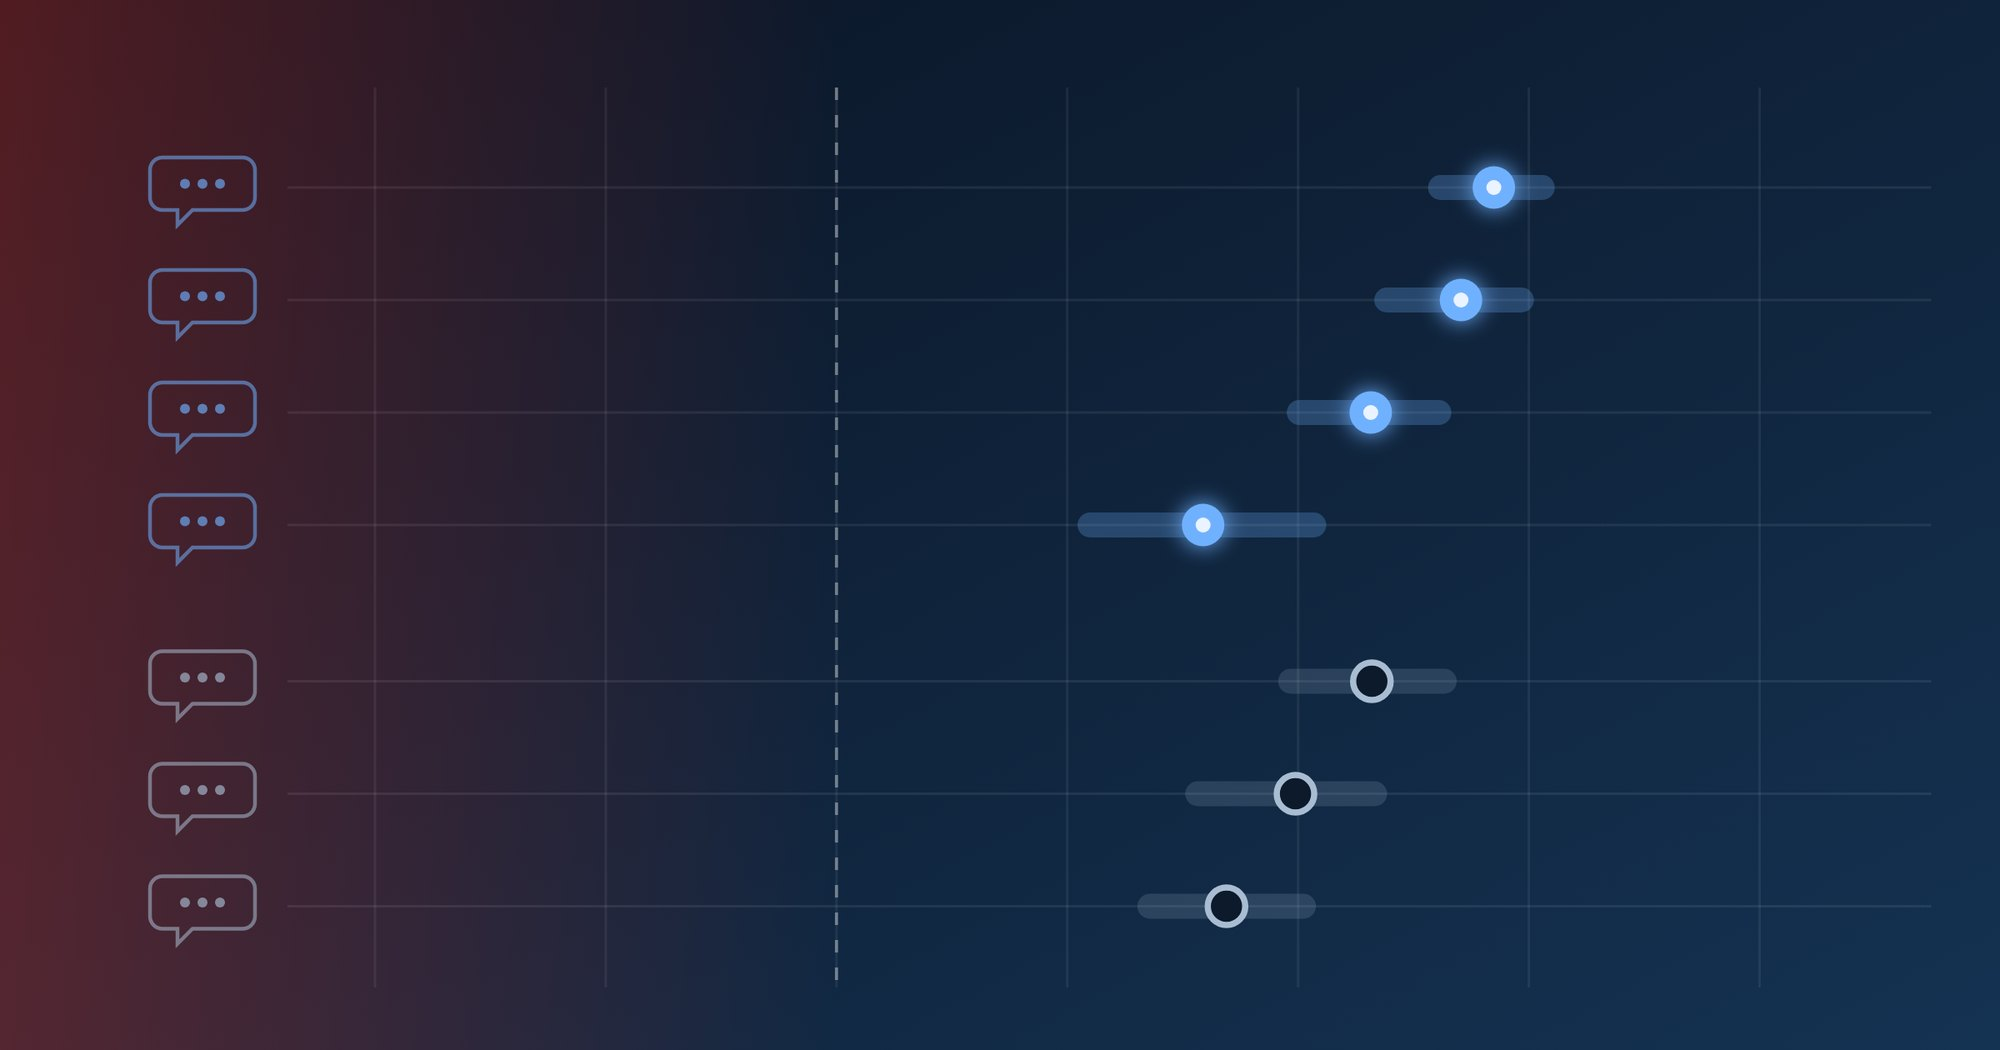
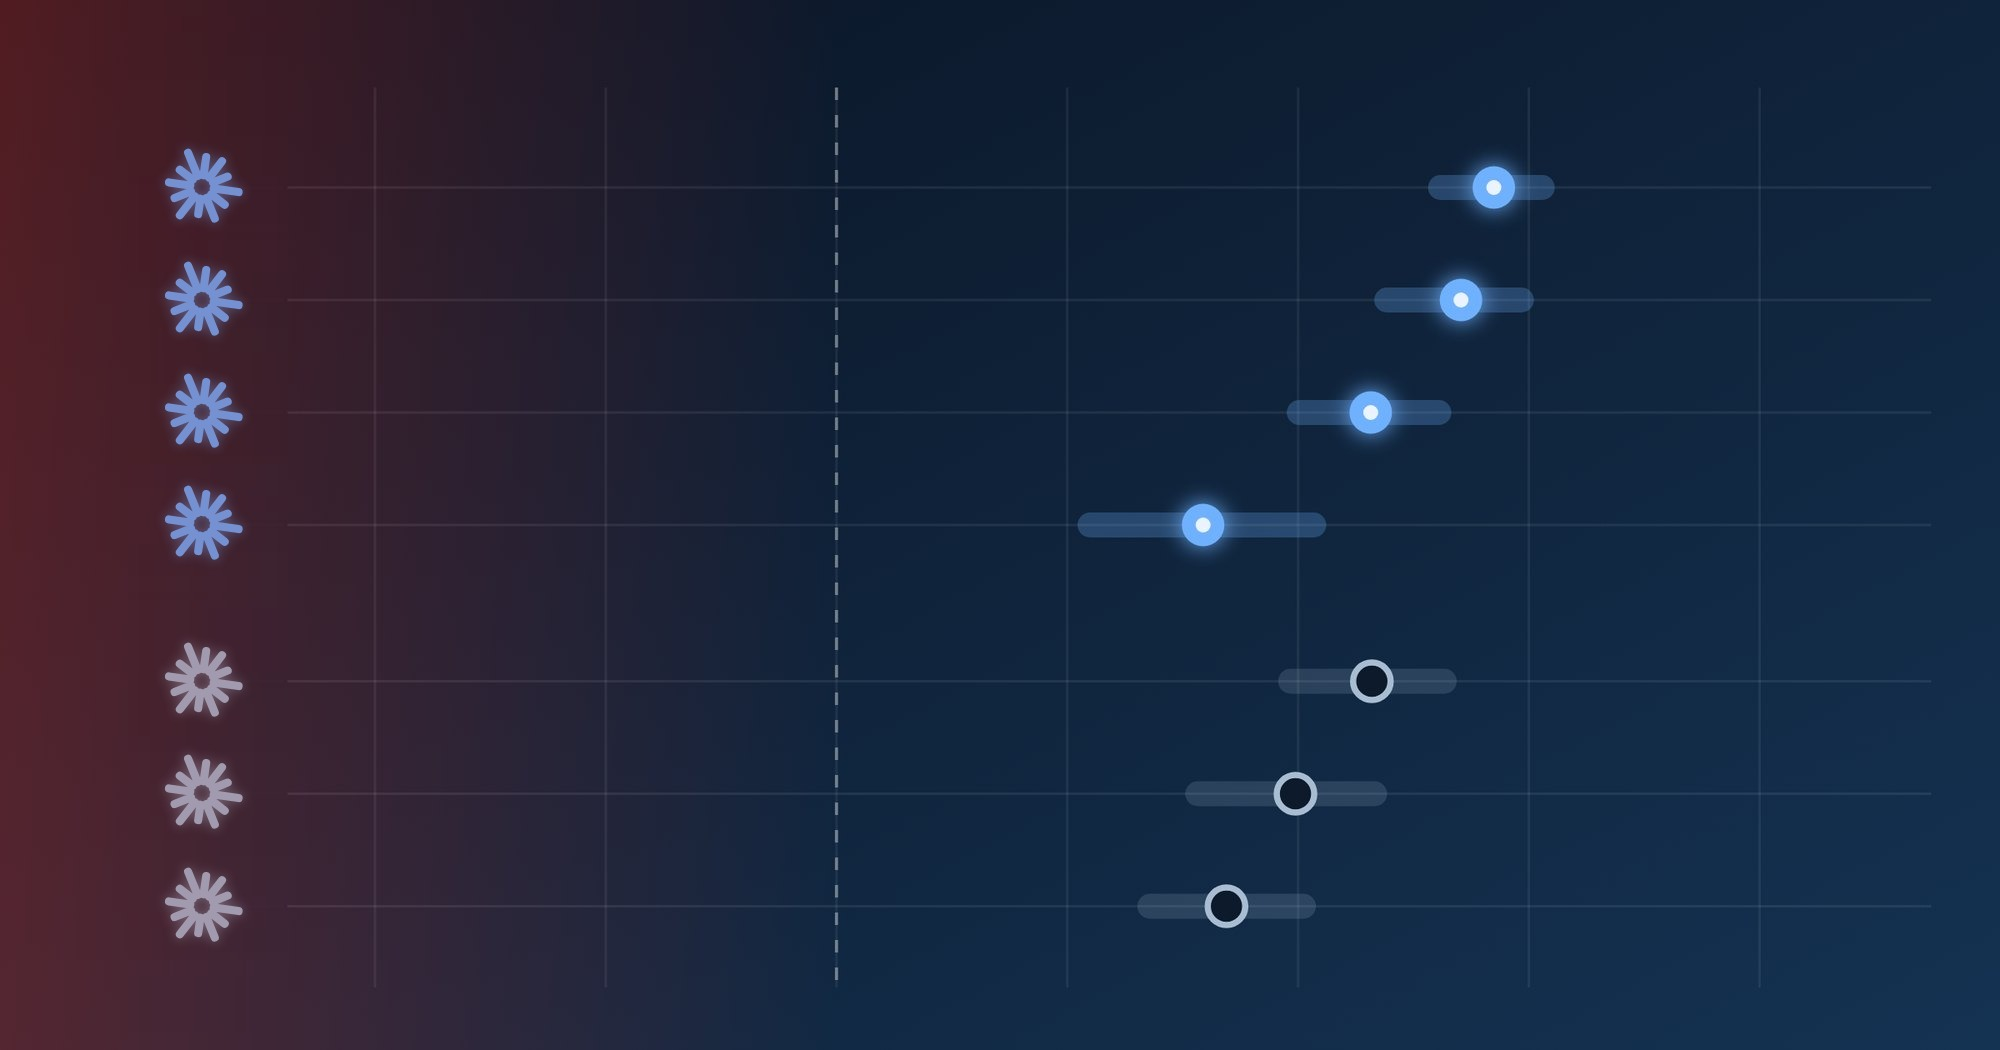
Replace speech bubbles on the comfort-index covers with model-maker marks
Stylized line-art marks in the covers' own outline-and-glow style: a
Claude-style spark for the Claude models, and an OpenAI-style knot and a
Grok-style ring for the cross-vendor post. Alt text updated to match.

Claude-Session: https://claude.ai/code/session_01Wxb3xtHiZtztrKhQNrVJnM

diff --git a/content/posts/comfort-index-across-vendors/index.md b/content/posts/comfort-index-across-vendors/index.md
@@ -7,7 +7,7 @@ tags: ["llm", "model-welfare", "evaluation", "reproducibility"]
 cover:
   image: cover.jpg
   relative: true
-  alt: "Abstract chart on a dark background: thirteen tracks in three coloured groups, each with a glowing dot at one model's Comfort Index and a faint band for its confidence interval; a dashed line marks neutral, with a red-tinted zone below it."
+  alt: "Abstract chart on a dark background: thirteen tracks in three coloured groups, led by stylized maker marks (a Claude-style spark, an OpenAI-style knot and a Grok-style ring), each with a glowing dot at one model's Comfort Index and a faint band for its confidence interval; a dashed line marks neutral, with a red-tinted zone below it."
 ShowToc: true
 TocOpen: true
 ---

diff --git a/content/posts/claude-comfort-index/index.md b/content/posts/claude-comfort-index/index.md
@@ -7,7 +7,7 @@ tags: ["llm", "model-welfare", "evaluation", "reproducibility"]
 cover:
   image: cover.jpg
   relative: true
-  alt: "Abstract chart on a dark background: seven speech bubbles on the left, each starting a horizontal track with a dot placed at one model's Comfort Index and a faint band for its confidence interval; a dashed line marks neutral, with a red-tinted zone below it."
+  alt: "Abstract chart on a dark background: seven Claude-style spark marks on the left, each starting a horizontal track with a dot placed at one model's Comfort Index and a faint band for its confidence interval; a dashed line marks neutral, with a red-tinted zone below it."
 ShowToc: true
 TocOpen: true
 ---
